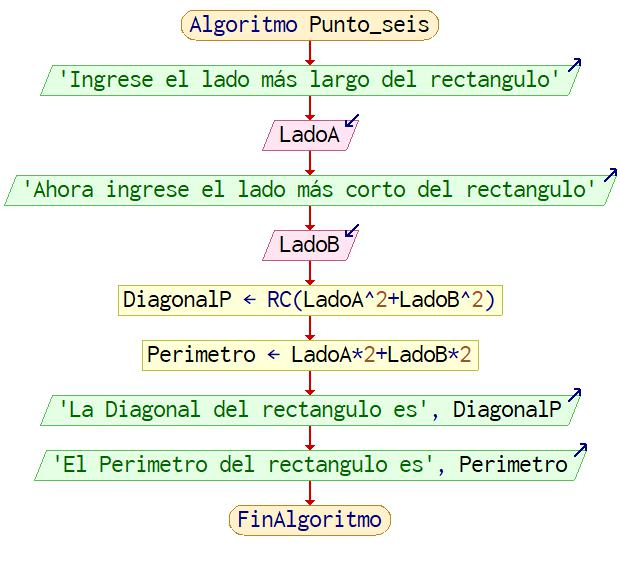
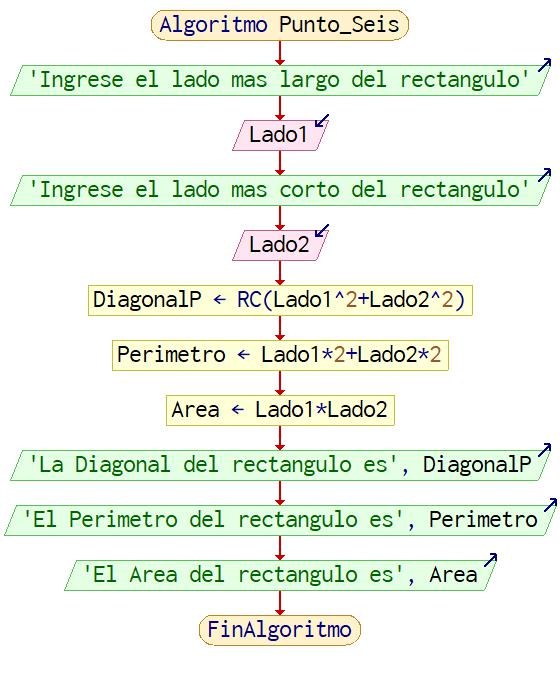
resuelto hasta el punto 6

diff --git a/ejercitacion_univ/PuntoSeis.c b/ejercitacion_univ/PuntoSeis.c
@@ -1,22 +1,21 @@
 #include <stdio.h>
 #include <stdlib.h>
 #include <math.h>
-#define DIA
 
 // Punto 6 de la tarea
 int main(void) {
     int Lado1, Lado2 = 0;
 
-    printf("Ingrese el primer lado del triangulo rectangulo\n");
+    printf("Ingrese el lado mas largo del rectangulo\n");
     scanf("%i", &Lado1);
-    printf("Ingrese el segundo lado del triangulo rectangulo\n");
+    printf("Ingrese el lado mas corto del rectangulo\n");
     scanf("%i", &Lado2);
 
-    int Hipotenusa = Lado1^2 + Lado2^2;
-    int Perimetro = Lado1 + Lado2 + Hipotenusa;
-    int Superficie = (Lado1 * Lado2) /2;
-    printf("El perimetro del triangulo es %i \n", Hipotenusa);
-    printf("El perimetro del triangulo es %i \n", Perimetro);
-    printf("El perimetro del triangulo es %i \n", Superficie);
+    float DiagonalP = sqrt(Lado1^2 + Lado2^2);
+    int Perimetro = Lado1 * 2 + Lado2 * 2;
+    int Superficie = Lado1 * Lado2;
+    printf("El Diagonal del rectangulo es %i \n", DiagonalP);
+    printf("El Perimetro del rectangulo es %i \n", Perimetro);
+    printf("El Area del rectangulo es %i \n", Superficie);
     return 0;
 }

diff --git a/ejercitacion_univ/cmake-build-debug/PuntoSiete.c b/ejercitacion_univ/cmake-build-debug/PuntoSiete.c
@@ -1,0 +1,3 @@
+//
+// Created by Be on 17/3/2025.
+//
